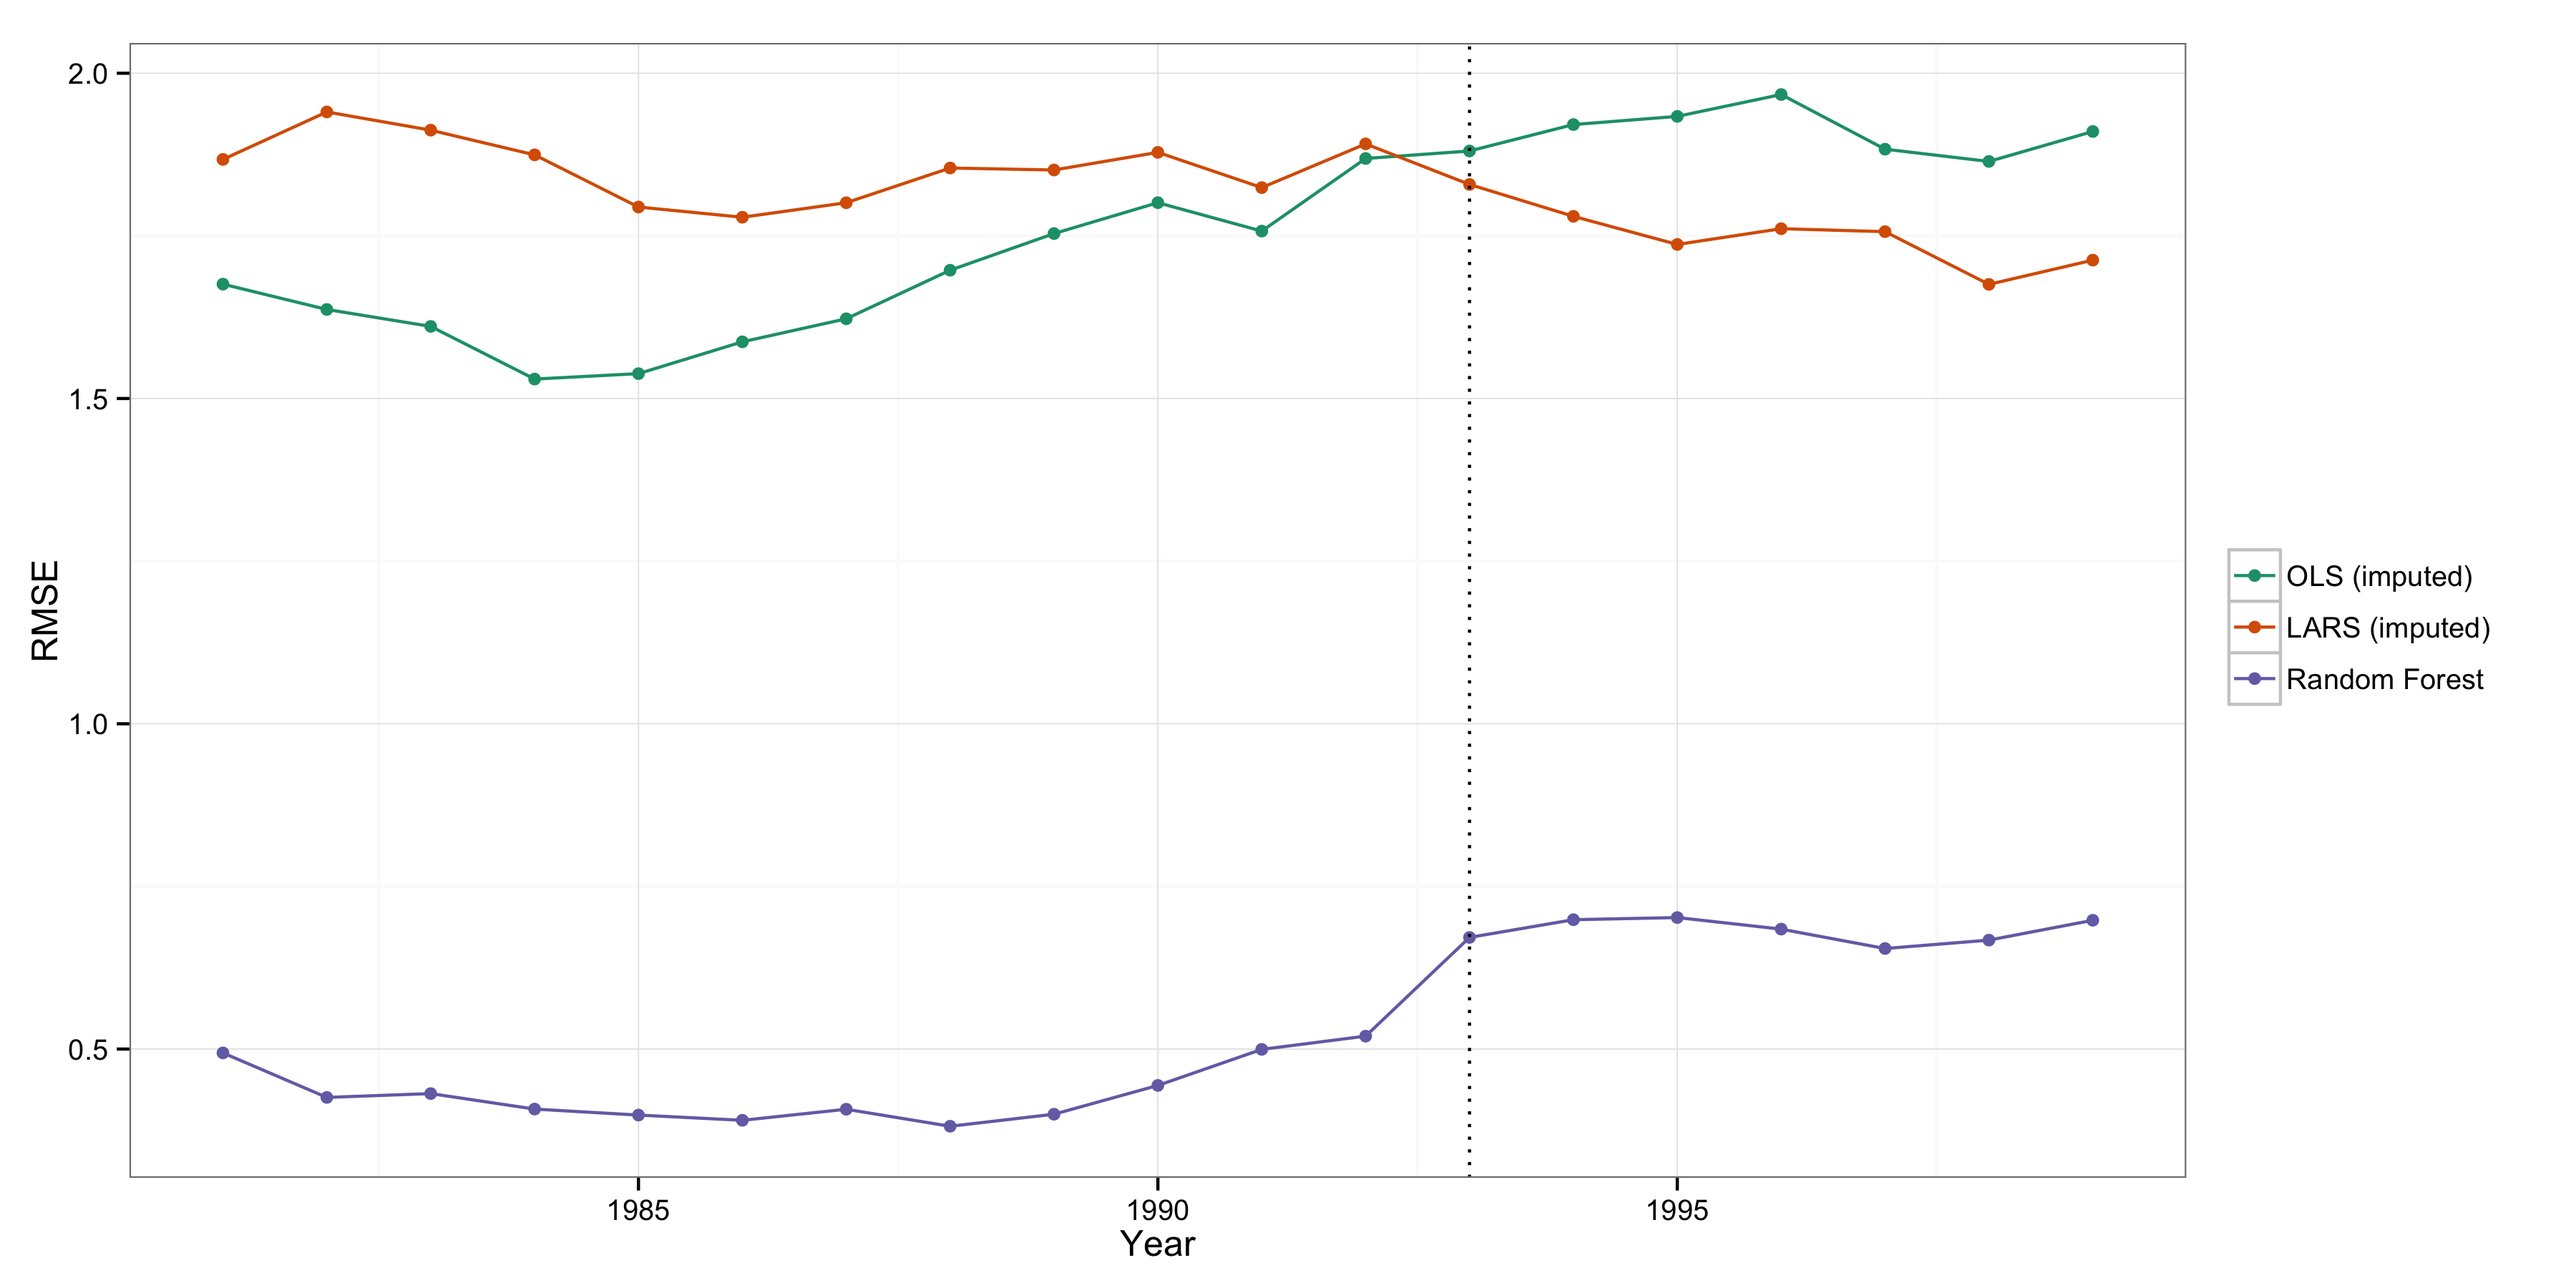
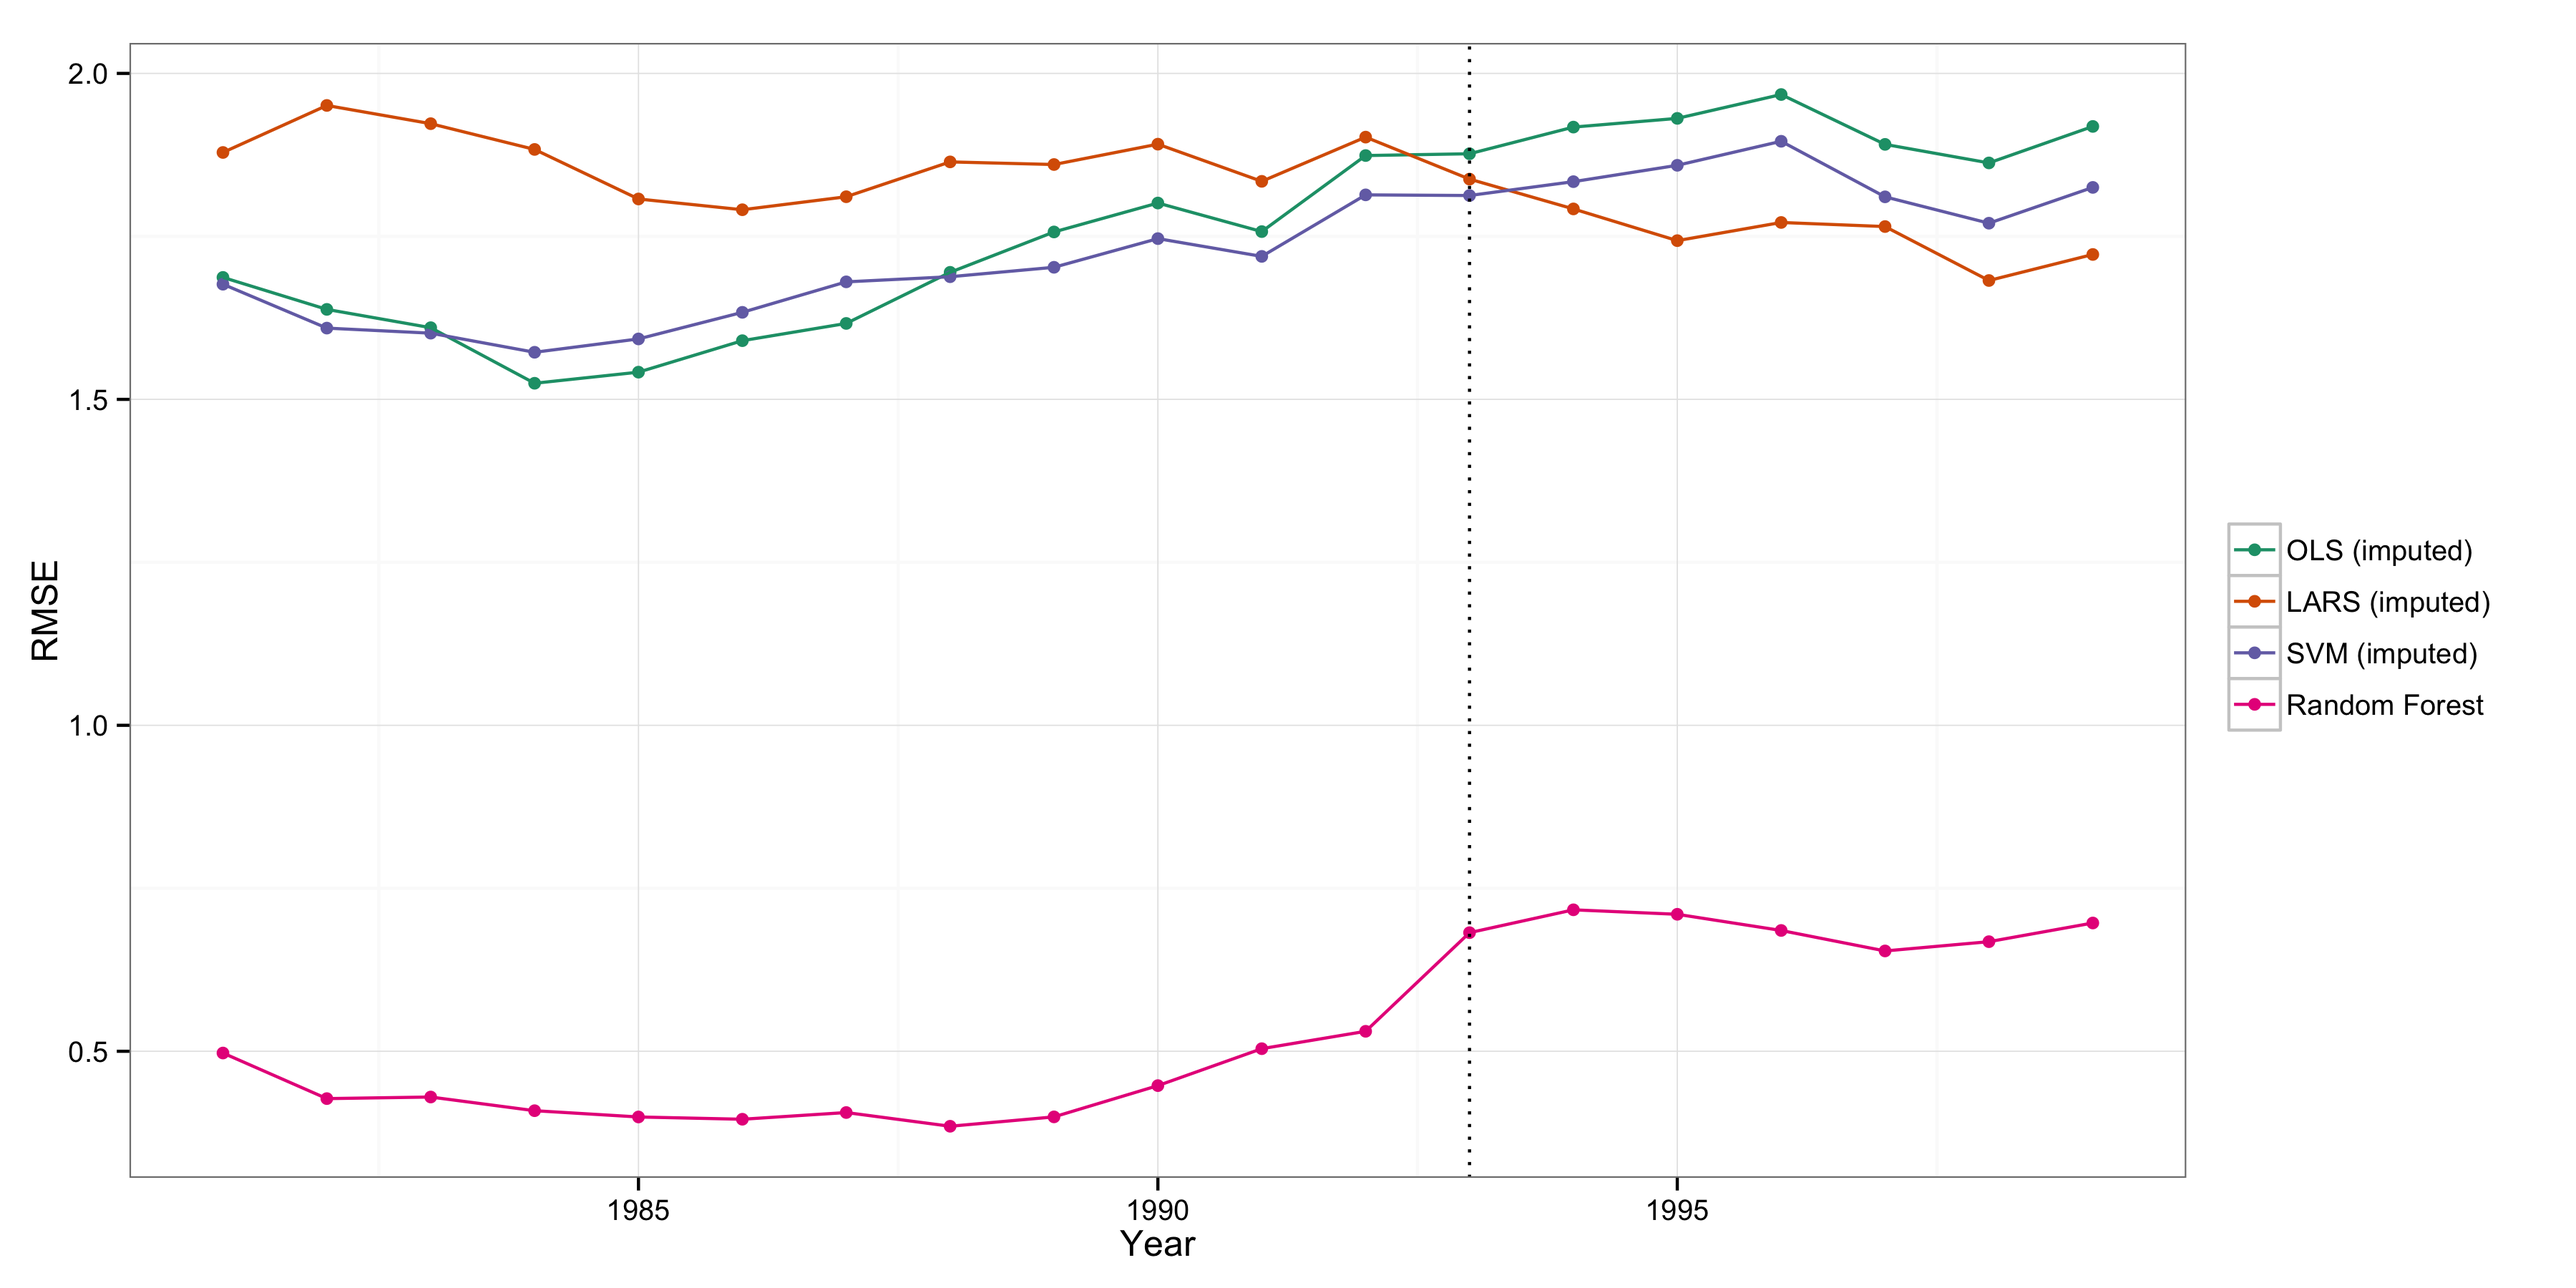
changes to slides, code
- smaller imp figure
 - added svm
 - formatting
 - conclusions

diff --git a/rfss_slides.md b/rfss_slides.md
@@ -61,16 +61,14 @@ Bagging combined with (3) when (3) is random selection of predictors at each nod
 # Example Data
 
  - State repression (1981-1999) country-year from a dynamic measurement model in Fariss (2014)
-    + latent continuous measure that is nonstationary and trending upwards over time and is a near unit-root
     + higher numbers mean more respect for physical integrity rights
  - Predictors are a subset of Hill and Jones (2014)
  - Substantial non-ignorable missingness handled via surrogate splitting (ignored w/o dropping)
  - Data are naively resampled (.632 subsamples) for growing trees
-    + effects of this are not entirely clear yet, working on it!
 
 # Prediction
 
-![Predictive performance (RMSE) in the training data (left of the dotted line) and the test data (right of the dotted line) for a random forest, least angle regression (LARS), and a linear model fit by OLS.](figures/hr_pred.png)
+![Predictive performance (RMSE) in the training data (left of the dotted line) and the test data (right of the dotted line) for a random forest, least angle regression (LARS), a linear model fit by OLS, and a support vector machine (SVM).](figures/hr_pred.png)
 
 # Permutation Importance
 
@@ -84,6 +82,8 @@ $$\text{VI}(\mathbf{x}_j) = \frac{1}{T} \sum_{t=1}^T \text{VI}^{(t)}(\mathbf{x}_
 Where $L(\cdot)$ is a loss function such as $\mathbb{I}(y_i = \hat{y}_i)$ or $(y_i - \hat{y}_i)^2$.
 
 # Permutation Importance Example
+
+![Permutation importance (top ten shown) for predictors of state repression. The dot shows the expected proportional increase in mean squared error.](figures/hr_imp.png)
 
 # Partial Dependence
 
@@ -107,4 +107,11 @@ Where $L(\cdot)$ is a loss function such as $\mathbb{I}(y_i = \hat{y}_i)$ or $(y
 
 # Conclusion
 
+ - postives
+    + powerful at prediction tasks
+    + intuitive means of substantive interpretation
+    + scalable (up and down)
 
+ - negatives
+    + no use of dependency structure
+	+ statistical theory still being developed
